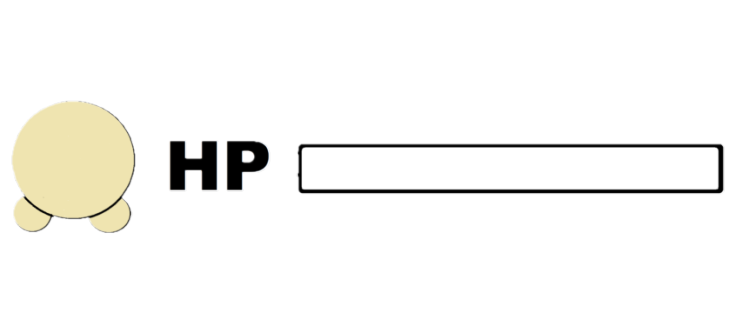
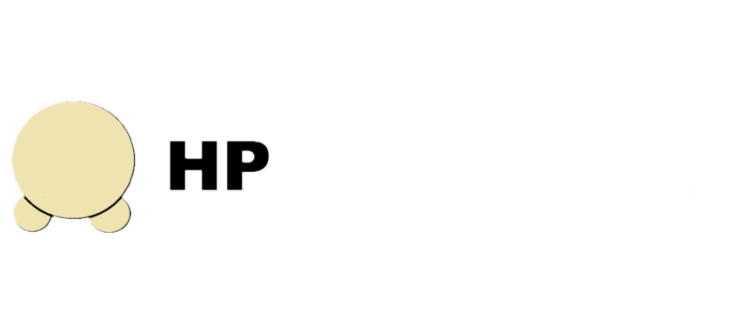
changed health bar to transparent background

Changed region(s): [[0.3992, 0.4313, 0.9826, 0.6326]]

diff --git a/game.js b/game.js
@@ -54,6 +54,8 @@ let game = {
     },
     updateHealth: () => {
       game.ctx.drawImage(document.getElementById('health_bar'), 25, game.getHeight() - 110, 300, 110);
+      game.ctx.fillStyle = "rgba(0,0,0,0.5)";
+      game.ctx.fillRect(140, game.getHeight() - 60, 175, 18);
       game.ctx.fillStyle = "red";
       game.ctx.fillRect(140, game.getHeight() - 60, 175 * (player.health / 100), 18);
     },
